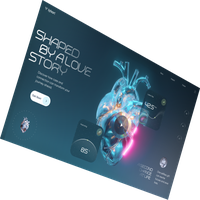
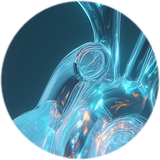
Replace UI-composite badge with clean heart crop

diff --git a/app/globals.css b/app/globals.css
@@ -1850,17 +1850,8 @@ details[open] .dgs-faq-summary {
 }
 
 /* ==========================================================================
-   VIDEO LAYER + MODAL + MOTION AFFORDANCES
+   VIDEO MODAL + MOTION AFFORDANCES
    ========================================================================== */
-.bh-video-layer {
-  display: none;
-}
-
-.bh-ambient-video,
-.bh-ambient-veil {
-  display: none;
-}
-
 .bh-play {
   z-index: 6;
   cursor: pointer;
@@ -1946,22 +1937,7 @@ details[open] .dgs-faq-summary {
   }
 }
 
-@media (max-width: 980px) {
-  .bh-ambient-video {
-    right: 50%;
-    top: 42%;
-    transform: translate(50%, -10%);
-    width: min(92vw, 560px);
-    height: min(52vh, 480px);
-    opacity: 0.35;
-  }
-}
-
 @media (prefers-reduced-motion: reduce) {
-  .bh-ambient-video {
-    display: none;
-  }
-
   .bh-modal-panel {
     animation: none;
   }
